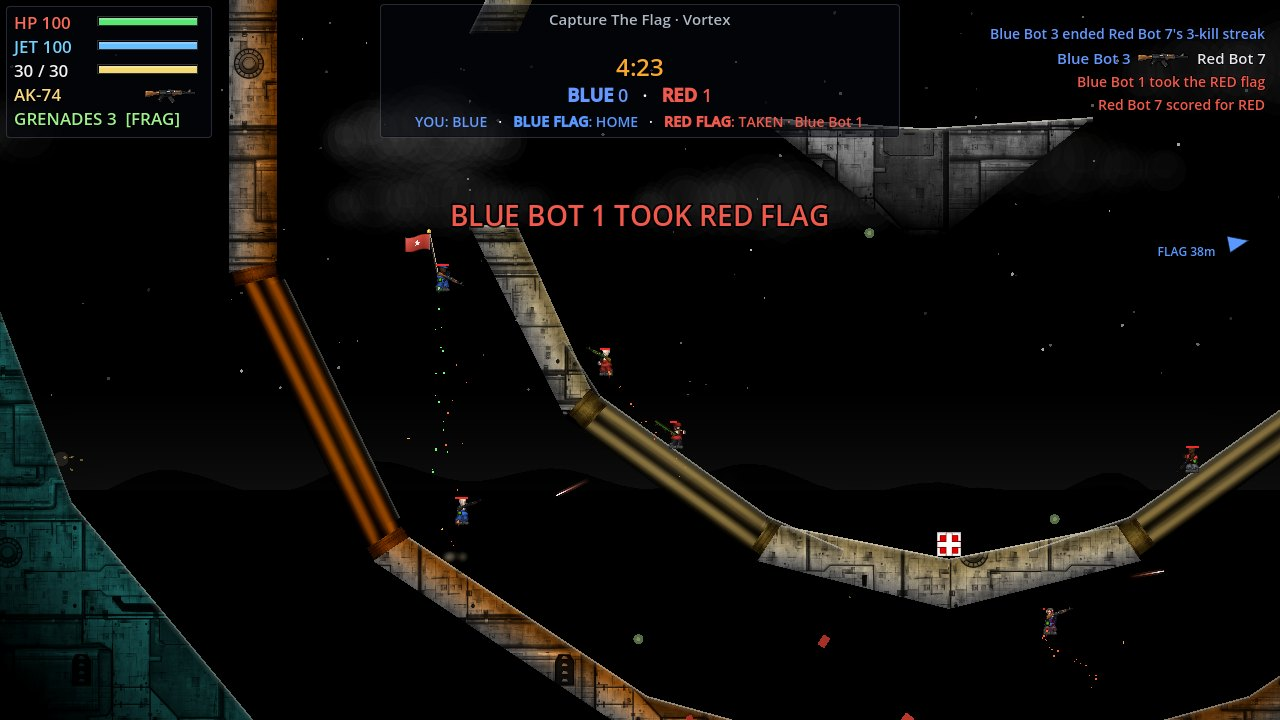
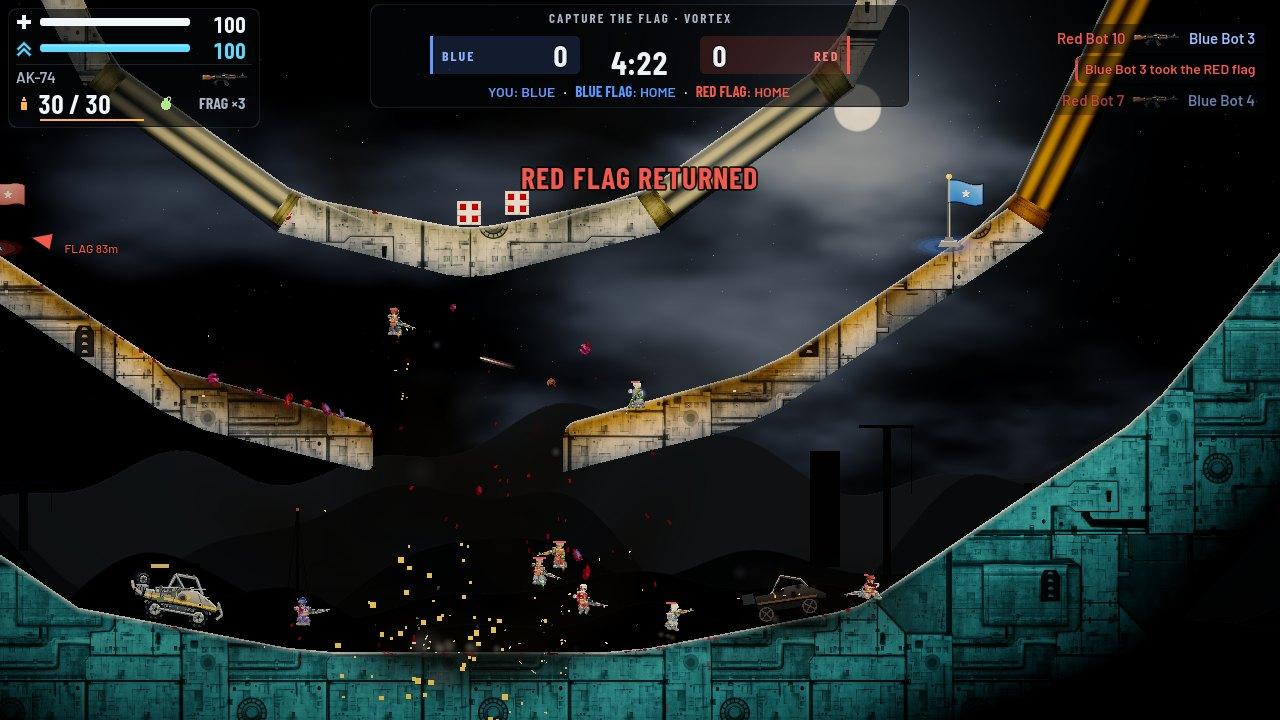
README: v1.35 screenshots (helicopter, cinematic look, new menus), what's-new section with before/after shots
Claude-Session: https://claude.ai/code/session_015WGYawy8C7TVpoHWbV3WBR

diff --git a/README.md b/README.md
@@ -8,15 +8,34 @@ the classic had and more, with most of Soldat 2's feature list folded in.
 [**Download the latest release**](https://github.com/Predator04/Soldat-Reborn/releases/latest) (Windows `.exe`, Android `.apk`) ·
 [Changelog](CHANGELOG.md) · [Roadmap](ROADMAP.md) · [Open issues](https://github.com/Predator04/Soldat-Reborn/issues)
 
-![Teammatch on Scorpion](docs/screenshots/teammatch-scorpion.jpg)
+![Capture the Flag on Vortex](docs/screenshots/ctf-vortex.jpg)
 
 | | |
 |---|---|
-| ![Domination on Jungle](docs/screenshots/domination-jungle.jpg) | ![Capture the Flag on Vortex](docs/screenshots/ctf-vortex.jpg) |
-| ![Deathmatch on Industrial](docs/screenshots/deathmatch-industrial.jpg) | ![Main menu](docs/screenshots/menu.jpg) |
+| ![Helicopter on its pad, Industrial](docs/screenshots/helicopter-industrial.jpg) | ![Helicopter rocket salvo](docs/screenshots/helicopter-rockets.jpg) |
+| ![Teammatch on Scorpion](docs/screenshots/teammatch-scorpion.jpg) | ![Domination on Jungle](docs/screenshots/domination-jungle.jpg) |
+| ![Main menu](docs/screenshots/menu.jpg) | ![Settings with live preview](docs/screenshots/settings-live-preview.jpg) |
 
-<sub>Real frames from the current build (bot matches, 1280×720). A graphics overhaul is in progress
-([#270](https://github.com/Predator04/Soldat-Reborn/issues/270), [#271](https://github.com/Predator04/Soldat-Reborn/issues/271), [#272](https://github.com/Predator04/Soldat-Reborn/issues/272)), so these get replaced as it lands.</sub>
+<sub>Real frames from the current build (v1.35, bot matches, 1280×720, rendered in software GL — on a GPU it looks the same, only smoother).</sub>
+
+### What's new in 1.35 — Tracerfall
+
+The game has a new name and a full visual overhaul (all cosmetic: physics, netcode and gameplay are unchanged and tested bit-for-bit):
+
+- **Cinematic look** — animated moonlit sky, fogged parallax hills with distant ruins, a filmic grade, real light from muzzle flashes and explosions, rim-lit soldiers. *Classic* look still in Settings → Video.
+- **Gore & effects** — soldiers break into their own body parts, blood sprays, arcs and stays on walls and floors; sparks, brass, debris, smoke and heat haze — all from fixed pools, so heavy fights never create nodes.
+- **Feel** — squash & stretch, weapon kick, hit flash, smooth screen shake, a freeze-frame on your kills (the match keeps running underneath).
+- **New menus & HUD** — one design language, animated screens, a live preview in Settings, UI scale and Reduce motion options.
+- **Vehicles** — detailed animated buggies and tanks with damage stages and burning wrecks, and a new **helicopter** (pilot rockets + door gunner) on the 15 biggest maps.
+- **Smoother maps** — rounded terrain corners on all 99 classic maps, in the drawing and in the ground you run on.
+- **Movement course**, **menu news line**, **weekly featured mode on the official server**, and **server-side cheat checks**.
+
+**Before → after** (left half is v1.34, right half is v1.35):
+
+![Gore before/after](docs/screenshots/gore-before-after.jpg)
+![Menu before/after](docs/screenshots/menu-before-after.jpg)
+![Vehicles before/after](docs/screenshots/vehicles-before-after.jpg)
+![Rounded map corners before/after](docs/screenshots/smooth-maps-before-after.jpg)
 
 ## Play online
 
@@ -36,6 +55,8 @@ credit are caught on the server (forced death, then a kick).
 - **Map editor** — in-game editor: place platforms, spawns, flags, control points; save/load custom maps; play-test live
 - **Procedural maps** — seeded generator with re-roll, produces playable layouts for every mode
 - **Classic maps** — 99 original Soldat levels ported from `.pms` with scenery, textured terrain, weather and baked bot navigation (bots play every objective mode on every map)
+- **Graphics** — cinematic or classic look, dynamic 2D lights, filmic post-processing, pooled particles and persistent blood, hit-stop and screen shake, three quality presets (Low runs on old PCs and phones)
+- **Menus & accessibility** — animated menus, live settings preview, UI scale 85–130 %, Reduce motion, colour-blind team colours, 5 languages
 - **Polish** — gestures/taunts, chat, weapon throw/pickup, ceasefire, bink, game modifiers, character customization with unlockables, lo-fi mode, local stats, GIF recording, improved grenade physics
 - **Multiplayer** — host-authoritative ENet (host / join), replicated bots that shoot and damage clients, dedicated headless server mode, server browser with live ping and player counts, Quick Join with **skill matchmaking**, automatic rejoin after a dropped connection, **relay hosting with join codes (no port forwarding, ever)**, LAN-scale sync, authority-owned grenade/rocket transforms so shooter + victim see the same trajectory and impact spot
 - **Online services** — a free public master server over HTTPS: live server list, a news line on the main menu, friends with one-click join and clan tags, a career **leaderboard** with ranks and achievements, a shared **map library** (upload, browse, download in-game), and signed auto-updates
